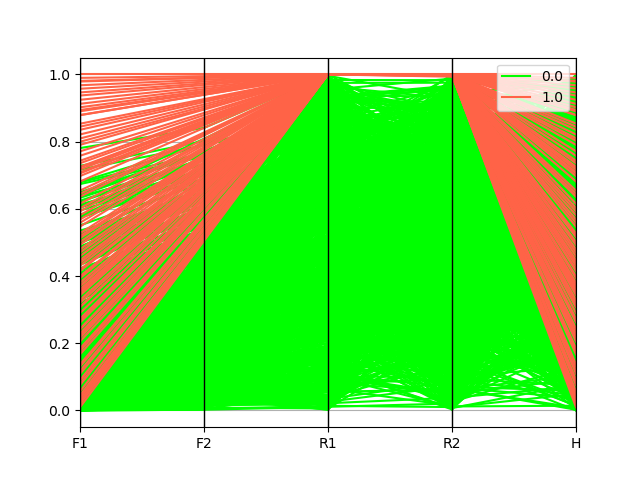
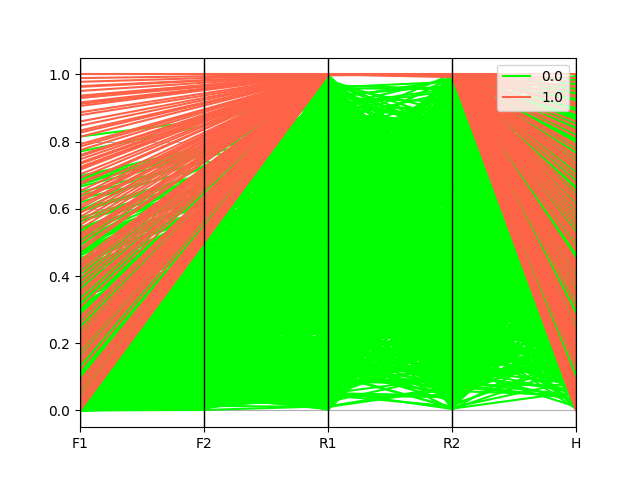
Update task3

diff --git a/task3/task3.py b/task3/task3.py
@@ -54,8 +54,8 @@ list_vars = variable_builder(['r1', 'r2', 'h'],
 # ## Create Objective objects
 
 
-f1 = ScalarObjective(name='f1', evaluator=f_1)
-f2 = ScalarObjective(name='f2', evaluator=f_2)
+f1 = ScalarObjective(name='f1', evaluator=f_1, lower_bound=0)
+f2 = ScalarObjective(name='f2', evaluator=f_2, upper_bound=0)
 list_objs = [f1, f2]
 
 # ## Create the problem object
@@ -79,7 +79,7 @@ while evolver.continue_evolution():
 individuals, solutions, _ = evolver.end()
 
 pd.DataFrame(solutions).to_csv("data/ParetoFront.csv")
-
+pd.DataFrame(individuals).to_csv("data/EfficientSet.csv")
 # Add a random sample to the plot
 
 r1 = random.rand(1000, 1) * (10.0)
@@ -97,7 +97,7 @@ randomsample = np.hstack((r1, r2, h))  # matrix 1000x2
 for i in range(1000):
     F1randomsample = f_1(randomsample)
     F2randomsample = f_2(randomsample)
-print(randomsample)
+# print(randomsample)
 
 # plt.scatter(F1randomsample,-F2randomsample)
 # plt.scatter(solutions[:,0],-solutions[:,1])
